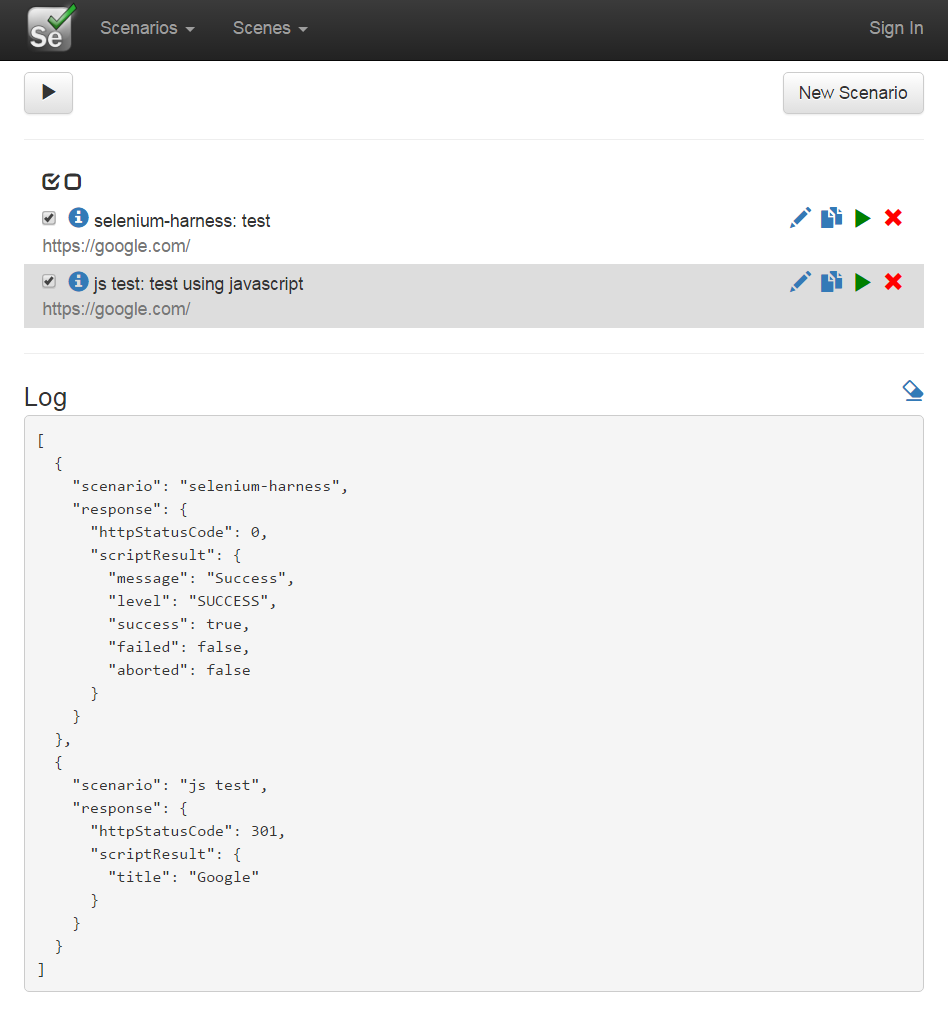
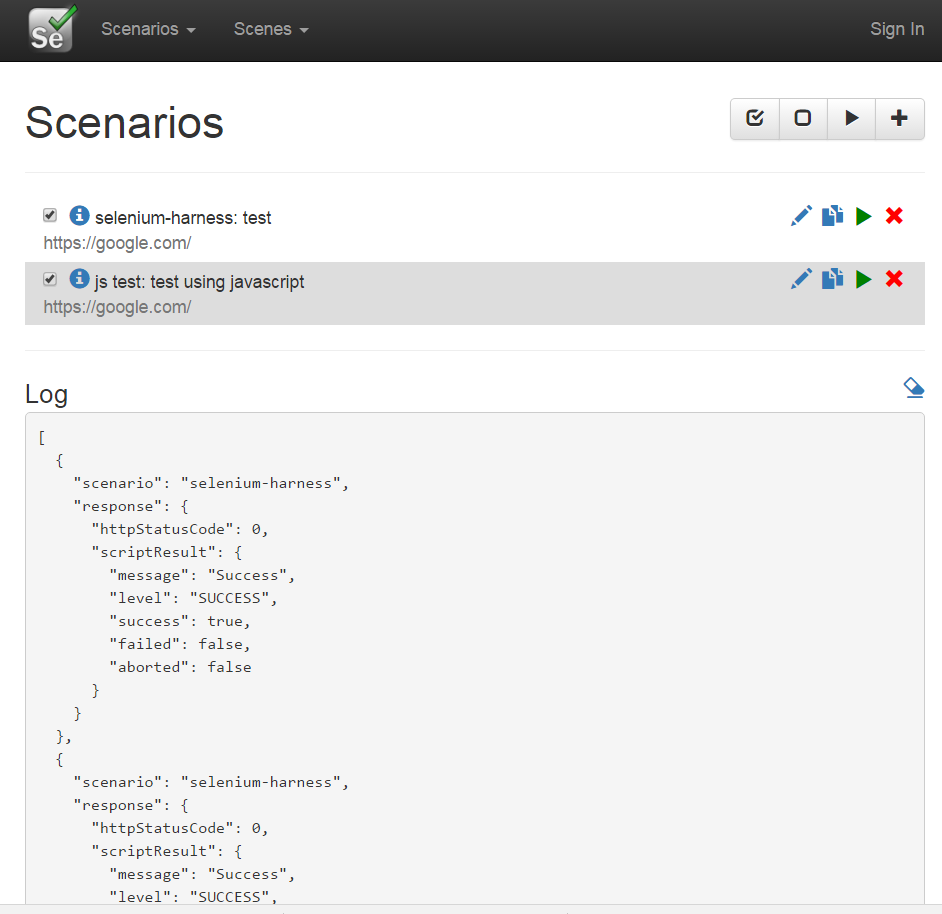
ui improvements

diff --git a/src/main/resources/public/modules/scenarios/views/list.view.html b/src/main/resources/public/modules/scenarios/views/list.view.html
@@ -1,20 +1,14 @@
 <section data-ng-controller="ScenariosController">
+	<div class="btn-group pull-right" role="group" aria-label="Scenario Operations">
+		<button type="button" class="btn btn-default" ng-click="selectAll(true)"><span title="select all" class="glyphicon glyphicon-check"></span></button>
+		<button type="button" class="btn btn-default" ng-click="selectAll(false)"><span title="un-select all" class="glyphicon glyphicon-unchecked"></span></button>
+		<button type="button" class="btn btn-default" ng-click="executeSelectedScenarios()"><span title="execute" class="glyphicon glyphicon-play"></span></button>
+		<button type="button" class="btn btn-default" ng-click="$location.path('/scenarios/create')"><span title="create" class="glyphicon glyphicon-plus"></span></button>
+	</div>
+	<h1>Scenarios</h1>
 	<div>
-		<div class="btn-group" role="group" aria-label="Scenario Operations">
-		  <button type="button" class="btn btn-default" ng-click="executeSelectedScenarios()"><span title="execute" class="glyphicon glyphicon-play"></span></button>
-		</div>
-		
-		<div class="pull-right">
-			<a href="#!/scenarios/create" class="btn btn-default">New Scenario</a>
-		</div>
 		<hr />
 		<div class="container-fluid scenario-list">
-			<div class="row">
-				<div class="col col-sm-12">
-					<span title="select all" ng-click="selectAll(true)" class="glyphicon glyphicon-check"></span> 
-					<span title="un-select all" ng-click="selectAll(false)" class="glyphicon glyphicon-unchecked"></span>
-				</div>
-			</div>
 			<div class="row" ng-class-even="'even-row'" ng-repeat="scenario in scenarios">
 				<div class="col col-sm-8 col-xs-8 shorten">
 					<input type="checkbox" no-wrap ng-model="scenario.checked" />

diff --git a/src/main/resources/public/modules/scenarios/controllers/scenarios.controller.js b/src/main/resources/public/modules/scenarios/controllers/scenarios.controller.js
@@ -6,6 +6,7 @@ angular.module('scenarios').controller('ScenariosController', ['$scope', '$rootS
 		// This provides Authentication context.
 		$rootScope.title='Scenarios';
 		$scope.authentication = Authentication;
+		$scope.$location = $location;
 		$scope.loading = [];
 		$scope.console = '';
 		$scope.logs = [];
